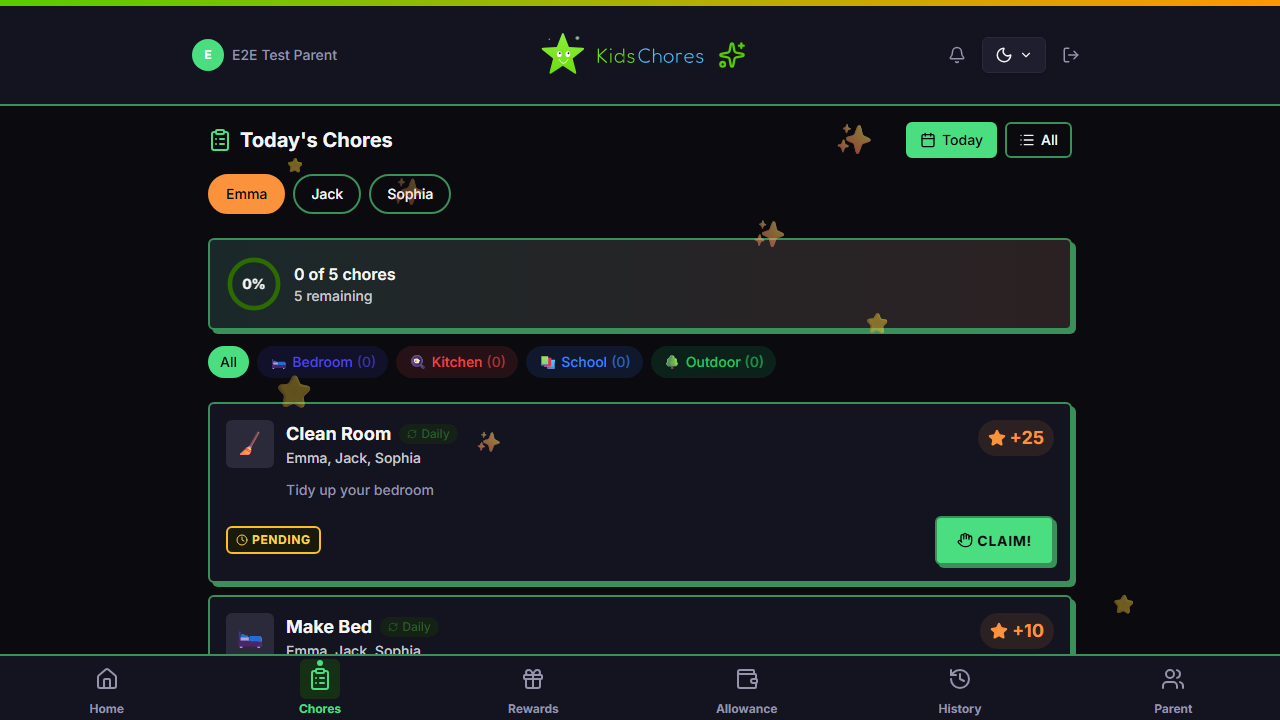
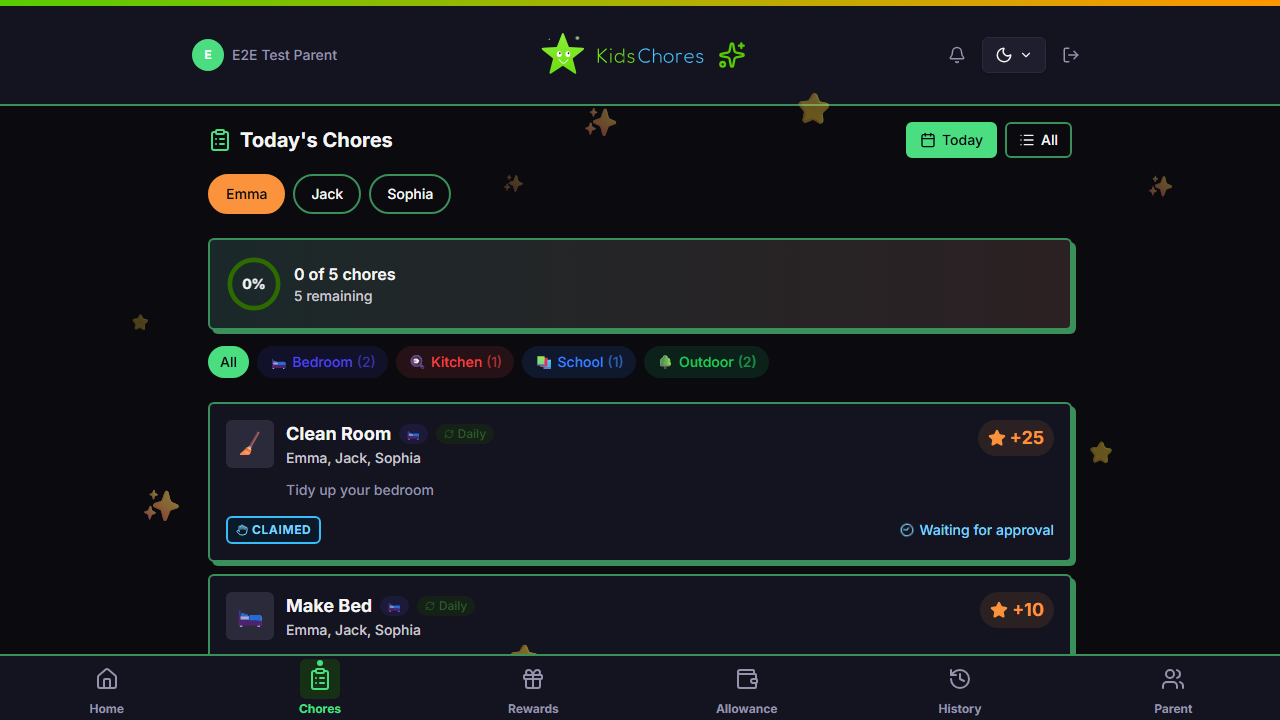
docs: regenerate v0.7.8 screenshots for GitHub README
Re-captured all 14 screenshots (7 pages x light/dark) against the test
instance with realistic seed data. Also added a 'screenshots' project
to playwright config and increased test timeout for the seeding-heavy
screenshot spec.

diff --git a/e2e/playwright.config.ts b/e2e/playwright.config.ts
@@ -75,6 +75,16 @@ export default defineConfig({
         baseURL: FRONTEND_URL,
       },
     },
+
+    // Screenshots - README documentation capture
+    {
+      name: 'screenshots',
+      testMatch: /screenshots\.spec\.ts/,
+      use: {
+        ...devices['Desktop Chrome'],
+        baseURL: FRONTEND_URL,
+      },
+    },
   ],
 
   // webServer config disabled when testing against deployed instance

diff --git a/e2e/screenshots.spec.ts b/e2e/screenshots.spec.ts
@@ -100,6 +100,7 @@ test.describe('README Screenshots', () => {
   test.use({ viewport: { width: 1280, height: 720 } });
 
   test('capture all screenshots', async ({ authenticatedPage: page, authApiContext }) => {
+    test.setTimeout(120_000); // Seeding + 14 screenshots needs more than 30s
     const api = new ApiHelpers(authApiContext);
 
     // Reset and seed data
